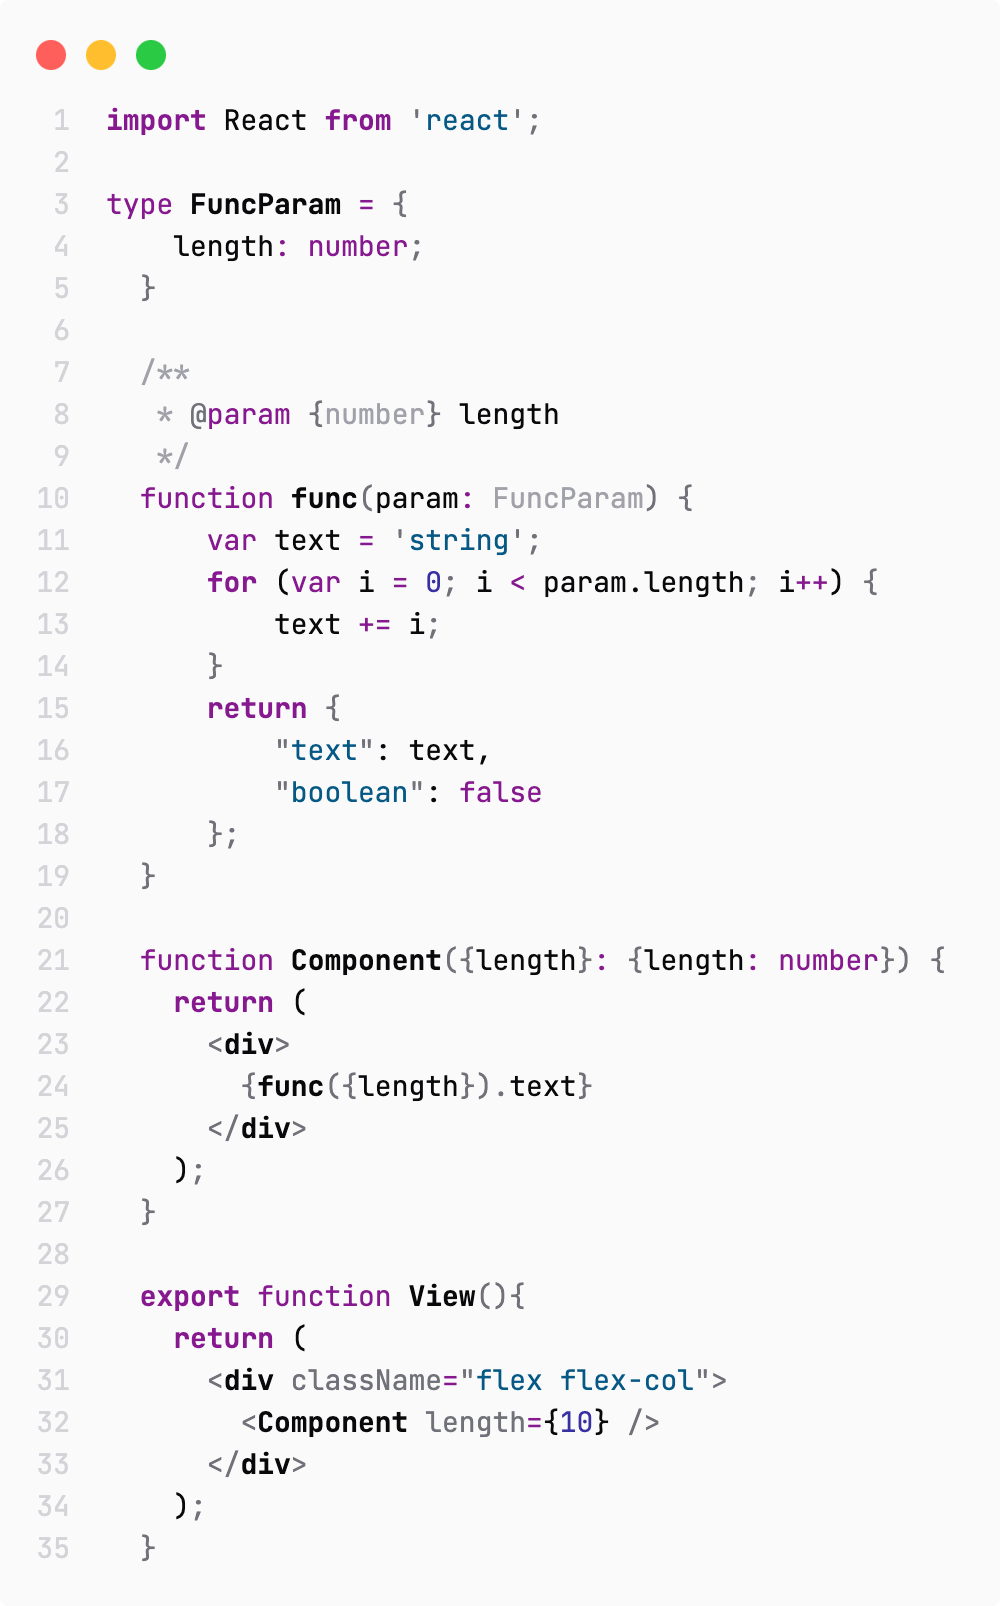
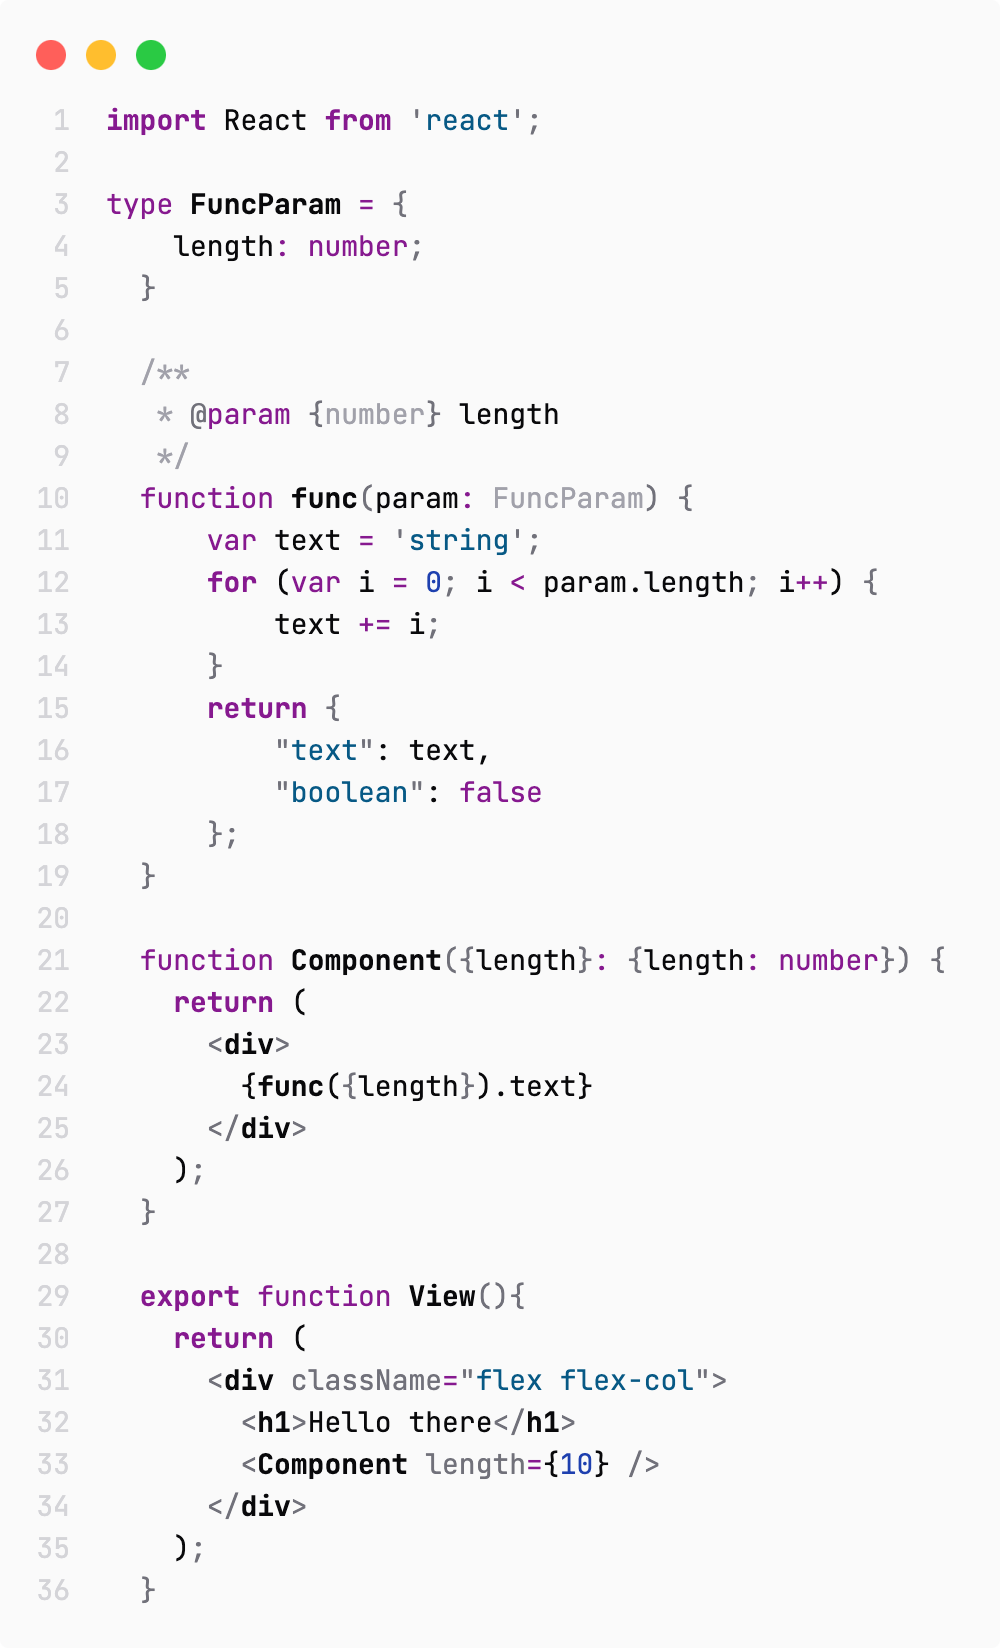
🐛 FIX: colors

diff --git a/samples/react.tsx b/samples/react.tsx
@@ -29,6 +29,7 @@ type FuncParam = {
   export function View(){
 	return (
 	  <div className="flex flex-col">
+		<h1>Hello there</h1>
 		<Component length={10} />
 	  </div>
 	);

diff --git a/CHANGELOG.md b/CHANGELOG.md
@@ -1,3 +1,9 @@
+## Version 1.0.4
+
+- Fix terminal color
+- Change number color
+- Fix markdown token color
+ 
 ## Version 1.0.3
 
 - Fix list hover colors
